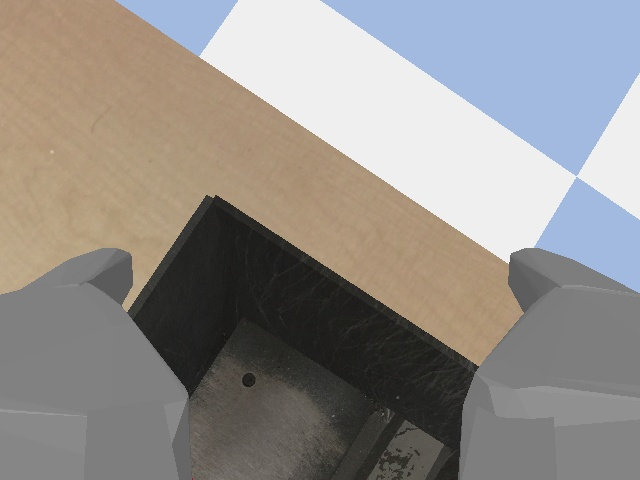
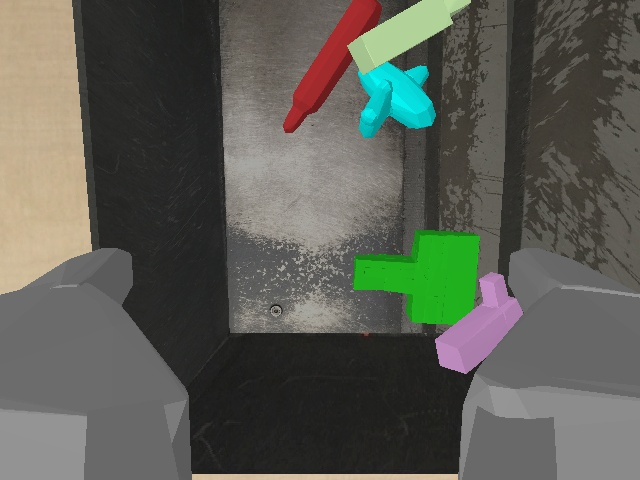
control arm

diff --git a/env/kuka_ir_env.py b/env/kuka_ir_env.py
@@ -124,6 +124,7 @@ class KukaIrEnv(KukaGymEnv):
     far = 10
     self._proj_matrix = p.computeProjectionMatrixFOV(fov, aspect, near, far)
 
+    self.finger_angle = 0.3
     self._attempted_grasp = False
     self._env_step = 0
     self.terminated = 0
@@ -198,13 +199,11 @@ class KukaIrEnv(KukaGymEnv):
 
 
   def _get_hand_cam(self):
-    self.hand_cam_idx = 15
-    
     cam_offset = np.array([0, 0, 0.01])
     local_forward = np.array([0, 0, 1])
     local_up = np.array([0, 1, 0])
     
-    hand_cam_link = p.getLinkState(self._kuka.kukaUid, self.hand_cam_idx, computeForwardKinematics=True)
+    hand_cam_link = p.getLinkState(self._kuka.kukaUid, self._kuka.kukaHandCamIndex, computeForwardKinematics=True)
     link_pos = np.array(hand_cam_link[0])
     link_quat = hand_cam_link[1]
     rot_matrix = np.array(p.getMatrixFromQuaternion(link_quat)).reshape(3, 3)
@@ -228,6 +227,43 @@ class KukaIrEnv(KukaGymEnv):
     np_depth_img_arr = img_arr[3] 
     return np_rgb_img_arr[:, :, :3], np_depth_img_arr[:, :]
   
+  
+  def arm_control(self, key: list):
+    """
+    0: stay, 1: right, 2: left, 3: front, 4: back, 5: down, 6: up, 
+    7: gripper CW, 8: gripper semi-CW, 9: gripper close
+    """
+    dv = 0.01
+    dx, dy, dz, da = 0, 0, 0, 0
+    
+    for idx in range(9):
+      if idx in key:
+        dx += [0, -dv, dv, 0, 0, 0, 0, 0, 0][idx]
+        dy += [0, 0, 0, -dv, dv, 0, 0, 0, 0][idx]
+        dz += [0, 0, 0, 0, 0, -dv, dv, 0, 0][idx]
+        da += [0, 0, 0, 0, 0, 0, 0, -0.25, 0.25][idx]
+    
+    action = [dx, dy, dz, da, self.finger_angle]
+    
+    self._kuka.applyAction(action)
+    for _ in range(self._actionRepeat):
+      p.stepSimulation()
+      
+    # If we are close to the bin, attempt grasp.
+    state = p.getLinkState(self._kuka.kukaUid, self._kuka.kukaEndEffectorIndex)
+    end_effector_pos = state[0]
+    if 9 in key:
+      grasp_action = [0, 0, 0, 0, self.finger_angle]
+      self._kuka.applyAction(grasp_action)
+      p.stepSimulation()
+      self.finger_angle -= 0.3 / 10.
+      if self.finger_angle < 0:
+        self.finger_angle = 0
+    else:
+      self.finger_angle += 0.3 / 10.
+      if self.finger_angle > 0.3:
+        self.finger_angle = 0.3
+
 
   def step(self, action):
     """Environment step.

diff --git a/collect_data/replay_data.py b/collect_data/replay_data.py
@@ -54,19 +54,19 @@ def load_hdf5(dataset_dir, dataset_name):
     return qpos, qvel, effort, action, base_action, image_dict
 
 def main(args):
-    rospy.init_node("replay_node")
-    bridge = CvBridge()
-    img_left_publisher = rospy.Publisher(args.img_left_topic, Image, queue_size=10)
-    img_right_publisher = rospy.Publisher(args.img_right_topic, Image, queue_size=10)
-    img_front_publisher = rospy.Publisher(args.img_front_topic, Image, queue_size=10)
+    # rospy.init_node("replay_node")
+    # bridge = CvBridge()
+    # img_left_publisher = rospy.Publisher(args.img_left_topic, Image, queue_size=10)
+    # img_right_publisher = rospy.Publisher(args.img_right_topic, Image, queue_size=10)
+    # img_front_publisher = rospy.Publisher(args.img_front_topic, Image, queue_size=10)
     
-    puppet_arm_left_publisher = rospy.Publisher(args.puppet_arm_left_topic, JointState, queue_size=10)
-    puppet_arm_right_publisher = rospy.Publisher(args.puppet_arm_right_topic, JointState, queue_size=10)
+    # puppet_arm_left_publisher = rospy.Publisher(args.puppet_arm_left_topic, JointState, queue_size=10)
+    # puppet_arm_right_publisher = rospy.Publisher(args.puppet_arm_right_topic, JointState, queue_size=10)
     
-    master_arm_left_publisher = rospy.Publisher(args.master_arm_left_topic, JointState, queue_size=10)
-    master_arm_right_publisher = rospy.Publisher(args.master_arm_right_topic, JointState, queue_size=10)
+    # master_arm_left_publisher = rospy.Publisher(args.master_arm_left_topic, JointState, queue_size=10)
+    # master_arm_right_publisher = rospy.Publisher(args.master_arm_right_topic, JointState, queue_size=10)
     
-    robot_base_publisher = rospy.Publisher(args.robot_base_topic, Twist, queue_size=10)
+    # robot_base_publisher = rospy.Publisher(args.robot_base_topic, Twist, queue_size=10)
 
 
     dataset_dir = args.dataset_dir

diff --git a/run_sim.py b/run_sim.py
@@ -1,3 +1,4 @@
+import sys
 import os
 root_dir = os.path.dirname(os.path.abspath(__file__))
 import numpy as np
@@ -61,6 +62,7 @@ class Kuka_sim:
                 target_joint = p.readUserDebugParameter(self.param_ids[i])
                 p.setJointMotorControl2(self.kuka_id, self.joint_ids[i], p.POSITION_CONTROL, target_joint, force=5 * 240.)
                 current_joint = self.get_joint()
+                # print(current_joint)
                 # top_img = self.get_screen()
                 hand_img = self.get_hand_img()
                 # print(current_joint["qpos"])
@@ -89,10 +91,14 @@ def main():
     
     p.setRealTimeSimulation(1)
     while True:
-        kuka_sim.control_pos()
+        # kuka_sim.control_pos()
         # img = kuka_sim.get_screen()
         # img.save("images/test.jpg")
         env.reset()
+        for i in range(30):
+            # キーボードまたはゲームパッド入力取得
+            env.arm_control([1, 3])
+            # env._get_hand_cam()
         
 
 if __name__ == "__main__": 

diff --git a/env/kuka.py b/env/kuka.py
@@ -27,6 +27,7 @@ class Kuka:
     self.useOrientation = 1
     self.kukaEndEffectorIndex = 6
     self.kukaGripperIndex = 7
+    self.kukaHandCamIndex = 15
     #lower limits for null space
     self.ll = [-.967, -2, -2.96, 0.19, -2.96, -2.09, -3.05]
     #upper limits for null space
@@ -117,15 +118,7 @@ class Kuka:
       #print(actualEndEffectorPos[2])
 
       self.endEffectorPos[0] = self.endEffectorPos[0] + dx
-      if (self.endEffectorPos[0] > 0.65):
-        self.endEffectorPos[0] = 0.65
-      if (self.endEffectorPos[0] < 0.50):
-        self.endEffectorPos[0] = 0.50
       self.endEffectorPos[1] = self.endEffectorPos[1] + dy
-      if (self.endEffectorPos[1] < -0.17):
-        self.endEffectorPos[1] = -0.17
-      if (self.endEffectorPos[1] > 0.22):
-        self.endEffectorPos[1] = 0.22
 
       #print ("self.endEffectorPos[2]")
       #print (self.endEffectorPos[2])
